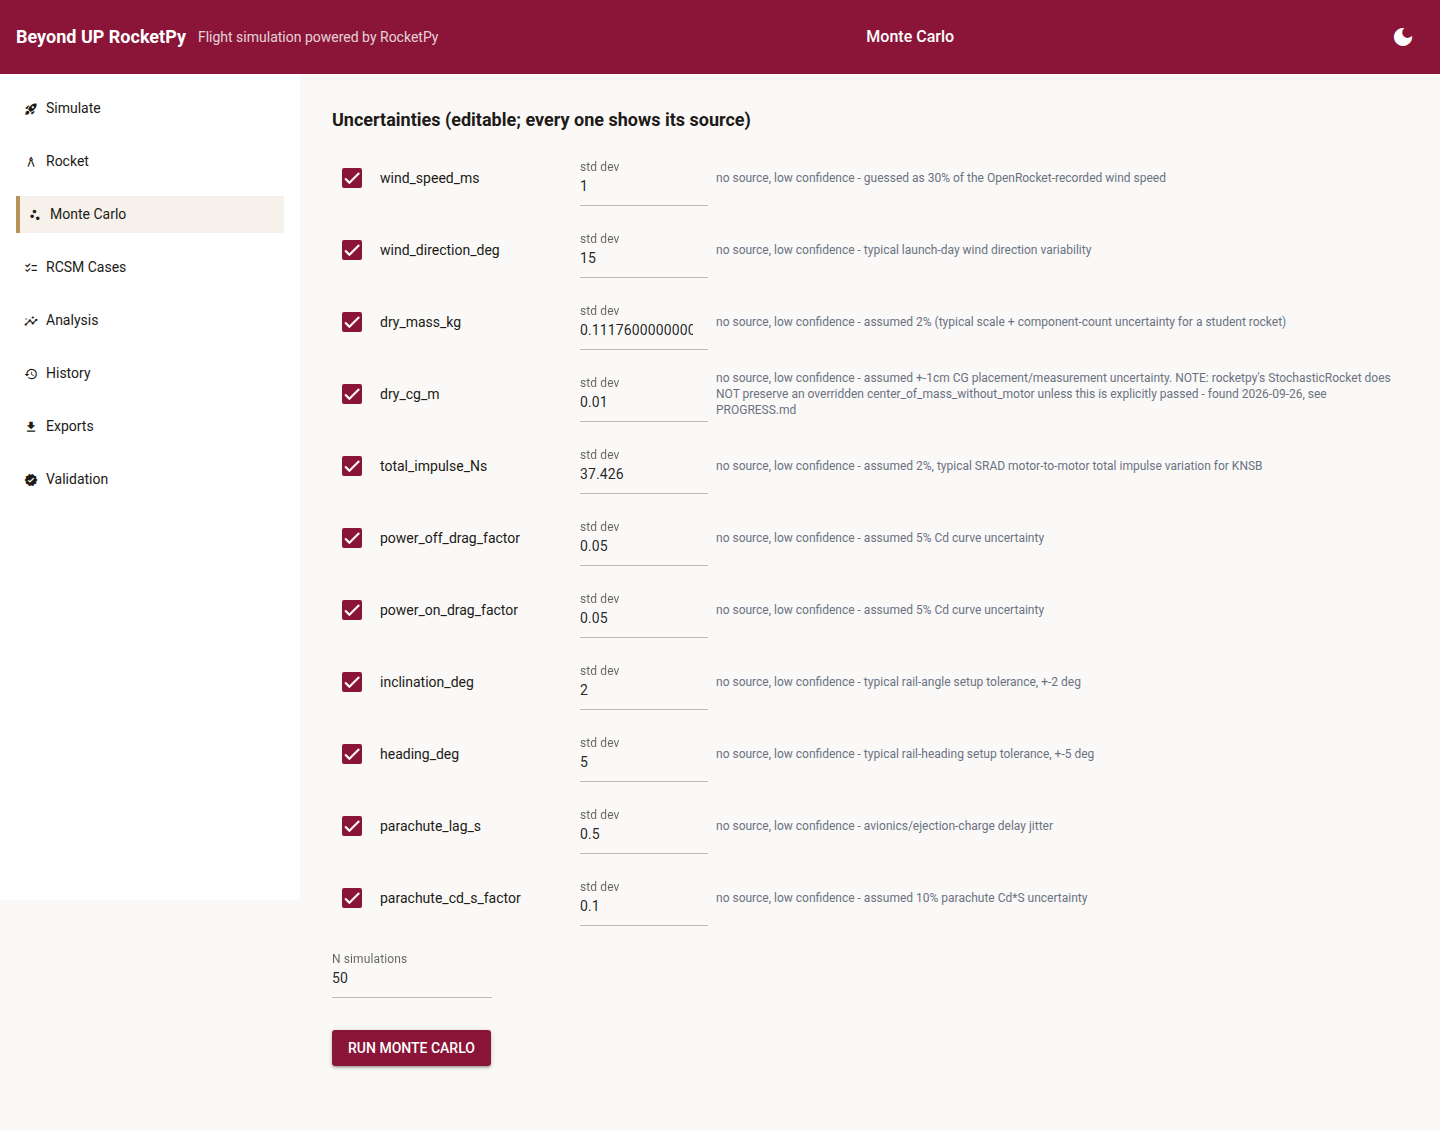
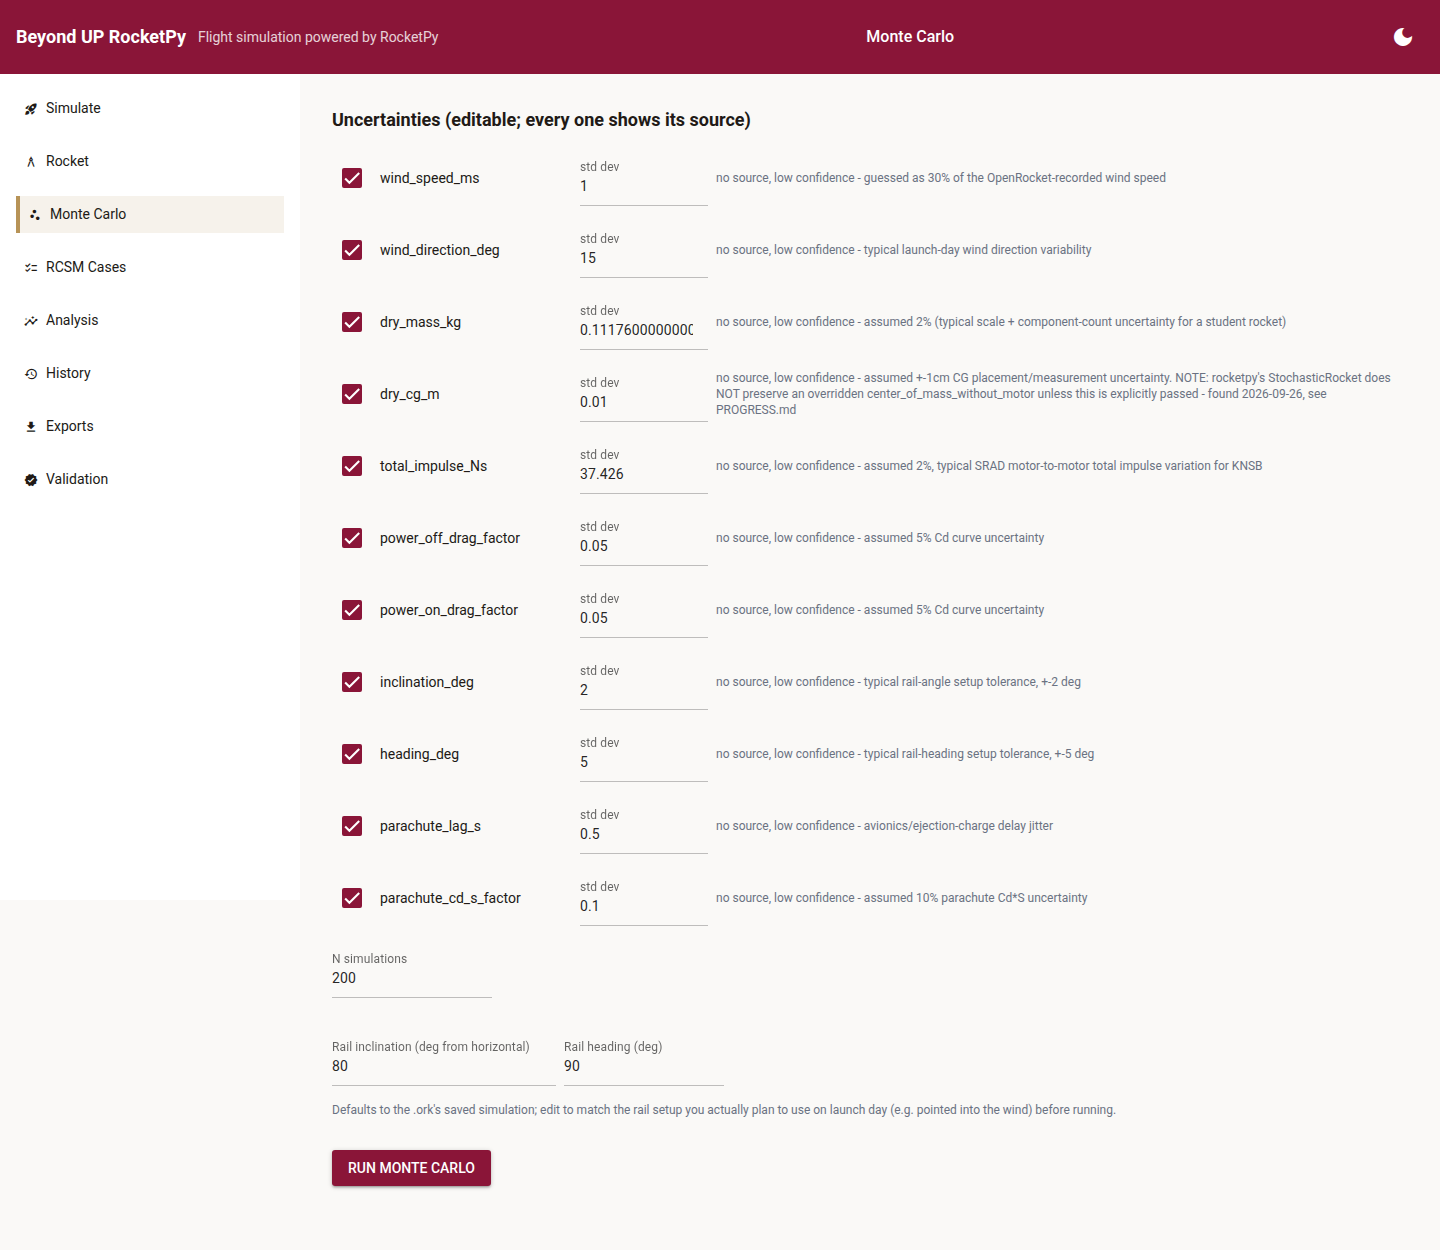
Section E: real LASC zip filenames, MC default N=200 + low-N warning, editable rail heading/inclination, landing map distance rings
- LASC zip and run history now use the user's real uploaded .ork/.eng
  filenames instead of the app's internal tempfile names.
- Monte Carlo page: default N raised to 200 (was 50) with a live
  low-N warning, and new editable rail inclination/heading inputs
  (defaulting to the .ork's saved simulation) so the operator can match
  the actual planned launch-day rail setup before running.
- Landing map: 1/2/5 km distance rings around the pad marker.

Claude-Session: https://claude.ai/code/session_01RHCgNw4tm9jk7r5jJja457

diff --git a/bup_rocketpy/monte_carlo.py b/bup_rocketpy/monte_carlo.py
@@ -106,7 +106,7 @@ def _seeded_rng(seed):
         np.random.default_rng = real_default_rng
 
 
-def _run_one_mc_sample(parsed, parsed_eng, eng_path, power_off_drag, power_on_drag, dry_mass_kg, dry_cg_m, i_axial, i_transverse, radius_m, u, include_recovery, sample_seed):
+def _run_one_mc_sample(parsed, parsed_eng, eng_path, power_off_drag, power_on_drag, dry_mass_kg, dry_cg_m, i_axial, i_transverse, radius_m, u, include_recovery, sample_seed, inclination_deg=None, heading_deg=None):
     """Builds ONE stochastic sample and flies it. Module-level (not a
     closure) and takes only plain/picklable arguments (dataclasses,
     dicts, floats, strings) so it can be sent to a separate OS process -
@@ -123,15 +123,24 @@ def _run_one_mc_sample(parsed, parsed_eng, eng_path, power_off_drag, power_on_dr
     Returns (apogee_agl_m, x_impact_or_None, y_impact_or_None); raises on
     a degenerate/unstable sample - the caller excludes it, same as the
     old per-sample try/except did.
+
+    inclination_deg/heading_deg: 2026-09-26 review item E - lets the UI
+    set the rail heading/inclination the operator actually plans to use
+    on launch day (e.g. into the current wind), overriding the value
+    stored in the .ork's saved simulation. None (the default) keeps the
+    .ork's own value, so every existing caller/test is unaffected.
     """
     from bup_rocketpy import translate
+
+    nominal_inclination = inclination_deg if inclination_deg is not None else parsed.launch.inclination_deg
+    nominal_heading = heading_deg if heading_deg is not None else parsed.launch.rail_direction_deg
 
     motor = translate.build_motor(parsed_eng, eng_path)
     mass_est = translate.MassEstimate(dry_mass_kg, dry_cg_m, "provided to run_monte_carlo")
     rocket = translate.build_rocket(parsed, motor, mass_est, i_axial, i_transverse, radius_m, power_off_drag=power_off_drag, power_on_drag=power_on_drag, include_recovery=include_recovery)
     env = translate.build_environment(parsed.launch)
     flight = Flight(rocket=rocket, environment=env, rail_length=parsed.launch.rail_length_m,
-                     inclination=parsed.launch.inclination_deg, heading=parsed.launch.rail_direction_deg, terminate_on_apogee=not include_recovery)
+                     inclination=nominal_inclination, heading=nominal_heading, terminate_on_apogee=not include_recovery)
 
     # Seeding: see _seeded_rng's docstring for why this whole construction
     # block runs inside it (needed for Phase 6's "same random seeds"
@@ -194,8 +203,8 @@ def _run_one_mc_sample(parsed, parsed_eng, eng_path, power_off_drag, power_on_dr
             stochastic_rocket.add_trapezoidal_fins(StochasticTrapezoidalFins(trapezoidal_fins=fin_surface))
         stochastic_flight = StochasticFlight(
             flight=flight,
-            inclination=(parsed.launch.inclination_deg, u["inclination_deg"].std_dev) if "inclination_deg" in u else None,
-            heading=(parsed.launch.rail_direction_deg, u["heading_deg"].std_dev) if "heading_deg" in u else None,
+            inclination=(nominal_inclination, u["inclination_deg"].std_dev) if "inclination_deg" in u else None,
+            heading=(nominal_heading, u["heading_deg"].std_dev) if "heading_deg" in u else None,
         )
         sample_rocket = stochastic_rocket.create_object()
         sample_env = stochastic_env.create_object()
@@ -213,7 +222,7 @@ def _run_one_mc_sample(parsed, parsed_eng, eng_path, power_off_drag, power_on_dr
     return apogee_agl, None, None
 
 
-def run_monte_carlo(parsed, parsed_eng, eng_path, power_off_drag, power_on_drag, dry_mass_kg, dry_cg_m, i_axial, i_transverse, radius_m, uncertainties, n_simulations, output_dir, include_recovery=True, progress_callback=None, seed=None, cancel_check=None, max_workers=None):
+def run_monte_carlo(parsed, parsed_eng, eng_path, power_off_drag, power_on_drag, dry_mass_kg, dry_cg_m, i_axial, i_transverse, radius_m, uncertainties, n_simulations, output_dir, include_recovery=True, progress_callback=None, seed=None, cancel_check=None, max_workers=None, inclination_deg=None, heading_deg=None):
     """Runs N stochastic flights IN PARALLEL across OS processes (one
     Flight() simulation doesn't parallelize internally, but N of them are
     embarrassingly parallel - CLAUDE.md never asked for this, added
@@ -230,6 +239,12 @@ def run_monte_carlo(parsed, parsed_eng, eng_path, power_off_drag, power_on_drag,
     Flight() simulation is CPU-bound with a small memory footprint, so
     there's little reason to leave cores unused. Override it if a
     machine needs to keep some cores free for other work.
+
+    inclination_deg/heading_deg: 2026-09-26 review item E - lets the
+    operator set the rail heading/inclination they actually plan to use
+    on launch day (e.g. pointed into the day's wind) before running the
+    batch, instead of being stuck with whatever the .ork's saved
+    simulation recorded. None (the default) keeps the .ork's own value.
 
     progress_callback(i, n) is called as EACH sample finishes (i =
     however many have completed so far, not sample i's own index -
@@ -276,7 +291,7 @@ def run_monte_carlo(parsed, parsed_eng, eng_path, power_off_drag, power_on_drag,
     executor = concurrent.futures.ProcessPoolExecutor(max_workers=n_workers)
     try:
         futures = {
-            executor.submit(_run_one_mc_sample, parsed, parsed_eng, eng_path, power_off_drag, power_on_drag, dry_mass_kg, dry_cg_m, i_axial, i_transverse, radius_m, u, include_recovery, sample_seeds[i]): i
+            executor.submit(_run_one_mc_sample, parsed, parsed_eng, eng_path, power_off_drag, power_on_drag, dry_mass_kg, dry_cg_m, i_axial, i_transverse, radius_m, u, include_recovery, sample_seeds[i], inclination_deg, heading_deg): i
             for i in range(n_simulations)
         }
         for future in concurrent.futures.as_completed(futures):

diff --git a/bup_rocketpy/gui/pages/montecarlo_page.py b/bup_rocketpy/gui/pages/montecarlo_page.py
@@ -39,7 +39,24 @@ def montecarlo_page():
                     std_input.on_value_change(lambda e, u=u: setattr(u, "std_dev", e.value))
                     ui.label(u.source).classes("text-xs text-gray-500 flex-1")
 
-        n_input = ui.number(label="N simulations", value=50)
+        n_input = ui.number(label="N simulations", value=200)
+        n_warning_label = ui.label("").classes("text-xs text-orange-700")
+
+        def _check_n_warning():
+            if n_input.value and n_input.value < 100:
+                n_warning_label.set_text("N < 100: the apogee mean/90% interval and landing ellipse won't be statistically meaningful. Default is 200.")
+            else:
+                n_warning_label.set_text("")
+
+        n_input.on_value_change(lambda _: _check_n_warning())
+        _check_n_warning()
+
+        parsed_for_rail = s["load_result"].parsed_ork
+        with ui.row().classes("items-center gap-2"):
+            rail_inclination_input = ui.number(label="Rail inclination (deg from horizontal)", value=parsed_for_rail.launch.inclination_deg if parsed_for_rail.launch else None).classes("w-56")
+            rail_heading_input = ui.number(label="Rail heading (deg)", value=parsed_for_rail.launch.rail_direction_deg if parsed_for_rail.launch else None).classes("w-40")
+        ui.label("Defaults to the .ork's saved simulation; edit to match the rail setup you actually plan to use on launch day (e.g. pointed into the wind) before running.").classes("text-xs text-gray-500")
+
         progress_bar = ui.linear_progress(value=0).props("hidden")
         progress_label = ui.label("")
         run_button = ui.button("Run Monte Carlo")
@@ -122,6 +139,17 @@ def montecarlo_page():
                         ui.label("Landing map").classes("text-md font-bold mt-2")
                         leaflet = ui.leaflet(center=(origin_lat, origin_lon), zoom=15).classes("w-full").style("height: 400px")
                         leaflet.marker(latlng=(origin_lat, origin_lon))
+                        # 2026-09-26 review item E: distance rings give a
+                        # quick-glance sense of scale (how far is the
+                        # ellipse from the road/property line etc.)
+                        # without needing to zoom/measure - plain circles
+                        # centered on the pad, radius in meters (leaflet's
+                        # native circle() takes a radius in meters, unlike
+                        # the ellipse polygons above which are computed in
+                        # local flat-earth XY and only look like ellipses
+                        # over this small an area).
+                        for radius_m, label in [(1000, "1 km"), (2000, "2 km"), (5000, "5 km")]:
+                            leaflet.generic_layer(name="circle", args=[[origin_lat, origin_lon], {"radius": radius_m, "color": "#666666", "fill": False, "weight": 1, "dashArray": "4,4"}])
                         for n_std, color in [(3, "#e0c9a6"), (2, "#c9a876"), (1, "#8A1538")]:
                             e = ellipses[n_std]
                             poly = ellipse_to_latlon_polygon(e["center_x"], e["center_y"], e["width"], e["height"], e["angle_deg"], origin_lat, origin_lon)
@@ -188,6 +216,7 @@ def montecarlo_page():
                     s["dry_mass_kg"], s["dry_cg_m"], i_ax, i_tr, radius,
                     s["mc_uncertainties"], n, os.path.join(OUTPUTS_DIR, "monte_carlo"),
                     include_recovery=True, progress_callback=progress_cb, cancel_check=cancel_flag.is_set,
+                    inclination_deg=rail_inclination_input.value, heading_deg=rail_heading_input.value,
                 )
             finally:
                 mc_progress["done"] = True

diff --git a/bup_rocketpy/lasc_package.py b/bup_rocketpy/lasc_package.py
@@ -6,11 +6,23 @@ import shutil
 import zipfile
 
 
-def build_lasc_zip(output_zip_path, mission_id, parsed, parsed_eng, eng_path, ork_path, power_off_drag_path, power_on_drag_path, dry_mass_kg, dry_cg_m, i_axial, i_transverse, radius_m, cases, version=1):
+def build_lasc_zip(output_zip_path, mission_id, parsed, parsed_eng, eng_path, ork_path, power_off_drag_path, power_on_drag_path, dry_mass_kg, dry_cg_m, i_axial, i_transverse, radius_m, cases, version=1, eng_filename=None, ork_filename=None):
     """cases: list of (case_name, include_recovery) tuples to export -
     typically [("Ballistic", False), ("Nominal", True)] at minimum
-    (CRS 10.1.14: the RocketPy award requires nominal and ballistic)."""
+    (CRS 10.1.14: the RocketPy award requires nominal and ballistic).
+
+    eng_filename/ork_filename: 2026-09-26 review item E - the user's OWN
+    uploaded filenames (e.g. "Major_tom.ork"), not os.path.basename of
+    eng_path/ork_path, which are this app's own tempfile paths
+    (NiceGUI's upload handler saves to a random tmpXXXX.ork/.eng name and
+    the original name was previously discarded right after the upload
+    notification). Falls back to the path's own basename only if the
+    real name truly isn't available (e.g. a script/test calling this
+    directly with a real, meaningfully-named path already)."""
     from bup_rocketpy import case_export
+
+    eng_filename = eng_filename or os.path.basename(eng_path)
+    ork_filename = ork_filename or os.path.basename(ork_path)
 
     base_path = output_zip_path[:-4] if output_zip_path.endswith(".zip") else output_zip_path
     staging_dir = base_path + "_staging"
@@ -18,8 +30,8 @@ def build_lasc_zip(output_zip_path, mission_id, parsed, parsed_eng, eng_path, or
         shutil.rmtree(staging_dir)
     os.makedirs(staging_dir)
 
-    shutil.copy(eng_path, os.path.join(staging_dir, os.path.basename(eng_path)))
-    shutil.copy(ork_path, os.path.join(staging_dir, os.path.basename(ork_path)))
+    shutil.copy(eng_path, os.path.join(staging_dir, eng_filename))
+    shutil.copy(ork_path, os.path.join(staging_dir, ork_filename))
     shutil.copy(power_off_drag_path, os.path.join(staging_dir, "power_off_drag.csv"))
     shutil.copy(power_on_drag_path, os.path.join(staging_dir, "power_on_drag.csv"))
 
@@ -27,7 +39,7 @@ def build_lasc_zip(output_zip_path, mission_id, parsed, parsed_eng, eng_path, or
         filename, source = case_export.generate_case_script(
             mission_id=mission_id, case_name=case_name, version=version,
             parsed=parsed, parsed_eng=parsed_eng,
-            eng_filename=os.path.basename(eng_path),
+            eng_filename=eng_filename,
             power_off_drag_filename="power_off_drag.csv", power_on_drag_filename="power_on_drag.csv",
             dry_mass_kg=dry_mass_kg, dry_cg_m=dry_cg_m,
             i_axial=i_axial, i_transverse=i_transverse, radius_m=radius_m,
@@ -43,8 +55,8 @@ Contents:
   scripts (CRS 10.1.6 naming). Each runs standalone with `pip install
   rocketpy` - no other files from this repo are needed, only the sibling
   files in this same folder (.eng, drag CSVs).
-- {os.path.basename(eng_path)} - the SRAD motor thrust curve (CRS 10.1.9).
-- {os.path.basename(ork_path)} - the OpenRocket design file this was built from.
+- {eng_filename} - the SRAD motor thrust curve (CRS 10.1.9).
+- {ork_filename} - the OpenRocket design file this was built from.
 - power_off_drag.csv / power_on_drag.csv - the Cd-vs-Mach curves used.
 
 PROVISIONAL: see this project's PROGRESS.md for validation status before

diff --git a/tests/test_phase4_monte_carlo.py b/tests/test_phase4_monte_carlo.py
@@ -104,7 +104,37 @@ def test_cancel_check_stops_early_and_keeps_partial_results():
     assert result.n_completed > 0, "the 2 completed-before-cancel samples must still be in the result, not discarded"
 
 
+def test_inclination_and_heading_override_shift_the_landing_ellipse():
+    """2026-09-26 review item E: the operator can set the rail
+    heading/inclination they actually plan to use on launch day, rather
+    than being stuck with whatever the .ork's saved simulation recorded.
+    A large heading change (same inclination) must move the mean landing
+    point - if the override were silently ignored, both runs would land
+    in the same place (same seed => same random offsets, only the
+    override differs)."""
+    parsed = read_ork(ORK_PATH)
+    eng = read_eng(ENG_PATH)
+    mass_est = translate.MassEstimate(DRY_MASS_KG, DRY_CG_M, "test")
+    i_ax, i_tr = translate.estimate_dry_inertia(parsed, mass_est)
+    radius = next(t.radius for t in parsed.body_tubes if t.radius)
+    uncertainties = monte_carlo.default_uncertainties(DRY_MASS_KG, 1871.3, parsed.launch.wind_average_ms)
+
+    kwargs = dict(
+        parsed=parsed, parsed_eng=eng, eng_path=ENG_PATH,
+        power_off_drag=POWER_OFF_DRAG, power_on_drag=POWER_ON_DRAG,
+        dry_mass_kg=DRY_MASS_KG, dry_cg_m=DRY_CG_M, i_axial=i_ax, i_transverse=i_tr, radius_m=radius,
+        uncertainties=uncertainties, n_simulations=5, output_dir=OUT_DIR, include_recovery=True, seed=42,
+    )
+    baseline = monte_carlo.run_monte_carlo(**kwargs, inclination_deg=parsed.launch.inclination_deg, heading_deg=parsed.launch.rail_direction_deg)
+    rotated = monte_carlo.run_monte_carlo(**kwargs, inclination_deg=parsed.launch.inclination_deg, heading_deg=parsed.launch.rail_direction_deg + 180)
+
+    dx = rotated.impact_x_samples[0] - baseline.impact_x_samples[0]
+    dy = rotated.impact_y_samples[0] - baseline.impact_y_samples[0]
+    assert (dx ** 2 + dy ** 2) ** 0.5 > 50, "a 180deg heading override should move the landing point substantially, not leave it unchanged"
+
+
 if __name__ == "__main__":
     test_monte_carlo_produces_a_sane_apogee_distribution_with_no_excluded_samples()
     test_cancel_check_stops_early_and_keeps_partial_results()
+    test_inclination_and_heading_override_shift_the_landing_ellipse()
     print("\nPHASE 4 MONTE CARLO: OK")

diff --git a/bup_rocketpy/gui/app.py b/bup_rocketpy/gui/app.py
@@ -42,11 +42,13 @@ def simulate_page():
         with ui.row():
             async def on_ork_upload(e):
                 s["ork_path"], name = await _save_upload(e, ".ork")
+                s["ork_filename"] = name  # 2026-09-26 review item E: the REAL uploaded name - ork_path is this app's own tempfile path, previously the only thing kept
                 ui.notify(f"Loaded {name}")
             ui.upload(label=".ork file", on_upload=on_ork_upload, auto_upload=True).props("accept=.ork")
 
             async def on_eng_upload(e):
                 s["eng_path"], name = await _save_upload(e, ".eng")
+                s["eng_filename"] = name
                 ui.notify(f"Loaded {name}")
             ui.upload(label=".eng file", on_upload=on_eng_upload, auto_upload=True).props("accept=.eng")
 
@@ -206,7 +208,7 @@ def simulate_page():
             try:
                 from bup_rocketpy import run_history
                 repo_root = os.path.dirname(os.path.dirname(os.path.dirname(os.path.abspath(__file__))))
-                run_history.save_run(repo_root, sim, s["load_result"], sim.dry_mass_kg, sim.dry_cg_m, ork_path=s["ork_path"])
+                run_history.save_run(repo_root, sim, s["load_result"], sim.dry_mass_kg, sim.dry_cg_m, ork_path=s["ork_path"], ork_filename=s["ork_filename"], eng_filename=s["eng_filename"])
             except Exception as exc:  # history is a convenience, never block a real result on it failing to save
                 print(f"WARNING: could not save run history: {exc}")
             progress.props("hidden")

diff --git a/bup_rocketpy/run_history.py b/bup_rocketpy/run_history.py
@@ -123,7 +123,7 @@ class RunRecord:
     drag_curve_source: str = ""
 
 
-def save_run(repo_root, sim_result, load_result, dry_mass_kg, dry_cg_m, ork_path=None, notes=""):
+def save_run(repo_root, sim_result, load_result, dry_mass_kg, dry_cg_m, ork_path=None, ork_filename=None, eng_filename=None, notes=""):
     run_id = datetime.now(timezone.utc).strftime("%Y%m%d_%H%M%S")
     run_dir = os.path.join(_runs_dir(repo_root), run_id)
     os.makedirs(run_dir, exist_ok=True)
@@ -136,8 +136,8 @@ def save_run(repo_root, sim_result, load_result, dry_mass_kg, dry_cg_m, ork_path
         # ork_path is the actual uploaded file's path - load_result.parsed_ork.name
         # is the ROCKET's declared name from inside the .ork's own XML, not a
         # filename at all (a pre-existing display bug this also fixes).
-        ork_filename=os.path.basename(ork_path) if ork_path else "unknown.ork",
-        eng_filename=os.path.basename(load_result.eng_path),
+        ork_filename=ork_filename or (os.path.basename(ork_path) if ork_path else "unknown.ork"),
+        eng_filename=eng_filename or os.path.basename(load_result.eng_path),
         dry_mass_kg=dry_mass_kg, dry_cg_m=dry_cg_m,
         apogee_agl_m=sim_result.apogee_agl_m, max_speed_ms=sim_result.max_speed_ms,
         min_static_margin_cal=sim_result.min_static_margin_cal, is_stable=sim_result.is_stable,

diff --git a/bup_rocketpy/gui/state.py b/bup_rocketpy/gui/state.py
@@ -5,6 +5,7 @@ production concern here.
 """
 state = {
     "ork_path": None, "eng_path": None, "drag_off_path": None, "drag_on_path": None,
+    "ork_filename": None, "eng_filename": None,  # 2026-09-26 review item E: the user's REAL uploaded filenames, not the tempfile path's own basename
     "load_result": None, "sim_result": None,
     "dry_mass_override": None, "dry_cg_override": None,  # raw manual-override UI fields (None unless the user checked "use manual override")
     "dry_mass_kg": None, "dry_cg_m": None, "mass_source": "",  # the mass/CG ACTUALLY used by the last successful Simulate (override or geometric estimate) - every other page reads THESE, never the override fields above, so they work on the default no-override path too (2026-09-26 review crash d)

diff --git a/bup_rocketpy/gui/pages/exports_page.py b/bup_rocketpy/gui/pages/exports_page.py
@@ -84,6 +84,7 @@ def exports_page():
                 s["ork_path"], s["load_result"].power_off_drag_path, s["load_result"].power_on_drag_path,
                 s["dry_mass_kg"], s["dry_cg_m"], i_ax, i_tr, radius,
                 cases=[("Ballistic", False), ("Nominal", True)],
+                eng_filename=s["eng_filename"], ork_filename=s["ork_filename"],
             )
             zip_status.set_text(f"Zip written: {os.path.basename(zip_path)}")
             ui.link("Download LASC .zip", f"/outputs/{os.path.basename(zip_path)}")

diff --git a/PROGRESS.md b/PROGRESS.md
@@ -1339,3 +1339,43 @@ with no dual-deploy warning and REC 8.1.1 PASSes, the AGL/ASL regression
 guard, and the descent-rate helper's math.
 
 Full suite: 50 passed, 1 deselected in ~76s.
+
+## Section E: small fixes (done)
+
+- **LASC zip real filenames**: NiceGUI's upload handlers saved every
+  `.ork`/`.eng` to a random `tempfile.mkstemp()` path and discarded the
+  user's real filename right after the upload notification - so the LASC
+  zip and its README always said e.g. `tmpabc123.ork` instead of
+  `Major_tom.ork`. Fixed by threading the real name through: `state.py`
+  gained `ork_filename`/`eng_filename`; `app.py`'s upload handlers now
+  store the real name alongside the tempfile path; `lasc_package.
+  build_lasc_zip()` and `run_history.save_run()` both take optional
+  `eng_filename`/`ork_filename` params (falling back to the tempfile
+  path's own basename only if not given, so direct script/test callers
+  are unaffected); `exports_page.py` and `app.py`'s Simulate handler now
+  pass the real names through.
+- **Monte Carlo default N**: raised the UI default from 50 to 200
+  (CLAUDE.md Phase 4 says "default N=200, editable"). Added a live
+  warning under the N field when N<100 ("won't be statistically
+  meaningful").
+- **Landing map improvements**: added 1/2/5 km dashed distance rings
+  around the pad marker (plain `leaflet.circle`, meters-based, unlike the
+  flat-XY ellipse polygons) for a quick sense of scale. Added editable
+  "Rail inclination"/"Rail heading" number inputs on the Monte Carlo page
+  (defaulting to the .ork's saved simulation values) so the operator can
+  set the rail setup they actually plan to use on launch day (e.g.
+  pointed into the day's wind) before running - previously these were
+  hardcoded to the .ork's stored values with no way to override them.
+  Threaded `inclination_deg`/`heading_deg` overrides through
+  `monte_carlo.run_monte_carlo()` -> `_run_one_mc_sample()` (both the
+  nominal Flight and the StochasticFlight sampling center use the
+  override when given, the .ork's own value otherwise - so every
+  existing caller/test is unaffected by the new, defaulted-to-None
+  params).
+
+New test `test_inclination_and_heading_override_shift_the_landing_ellipse`
+in `tests/test_phase4_monte_carlo.py`: same seed, only heading differs by
+180 deg, asserts the landing point actually moves (catches a silently-
+ignored override).
+
+Full suite: 51 passed, 1 deselected in ~76s.
